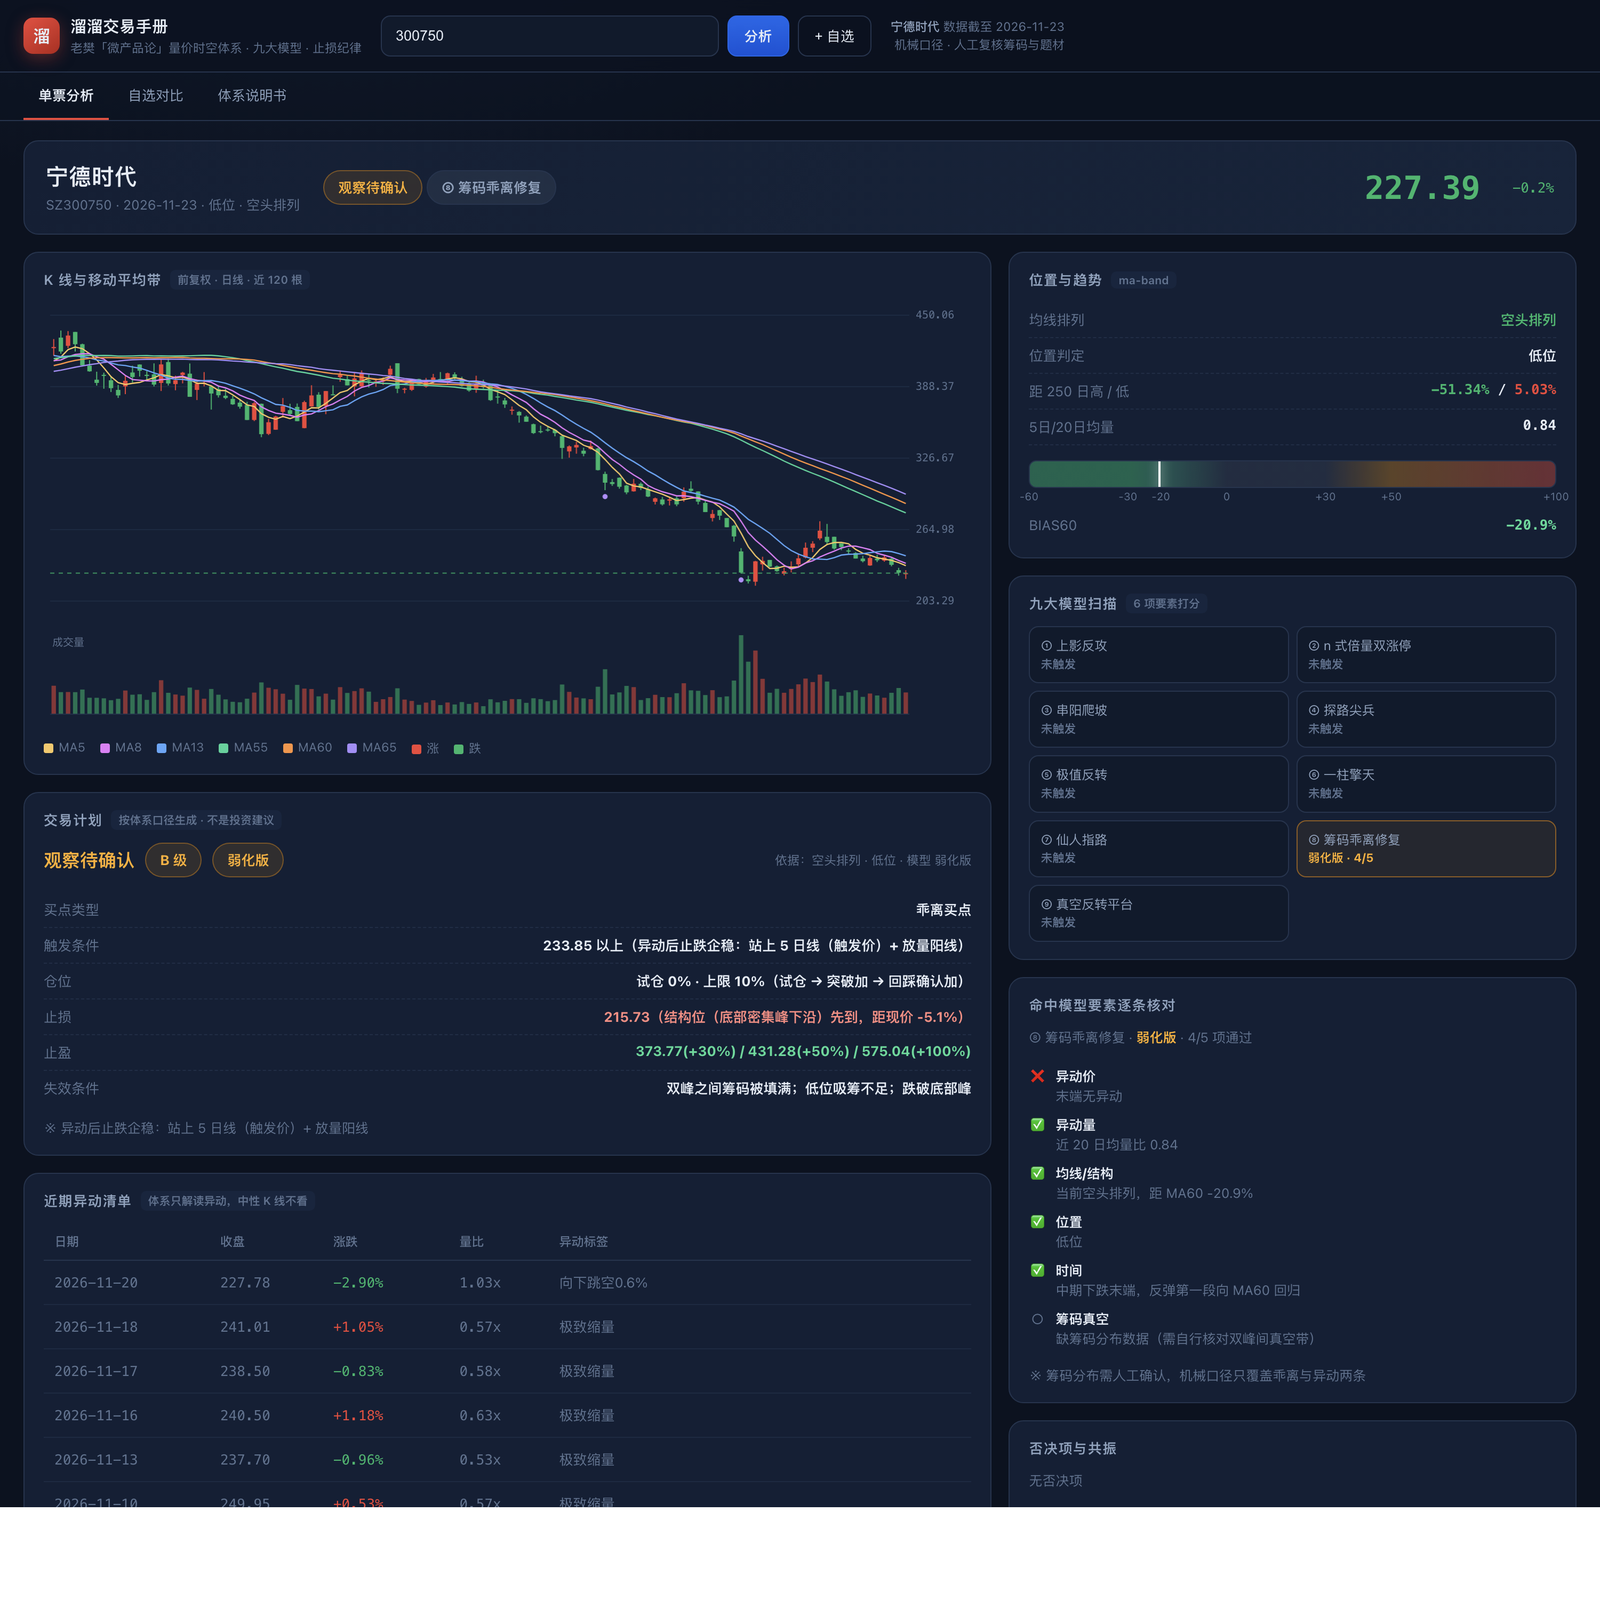
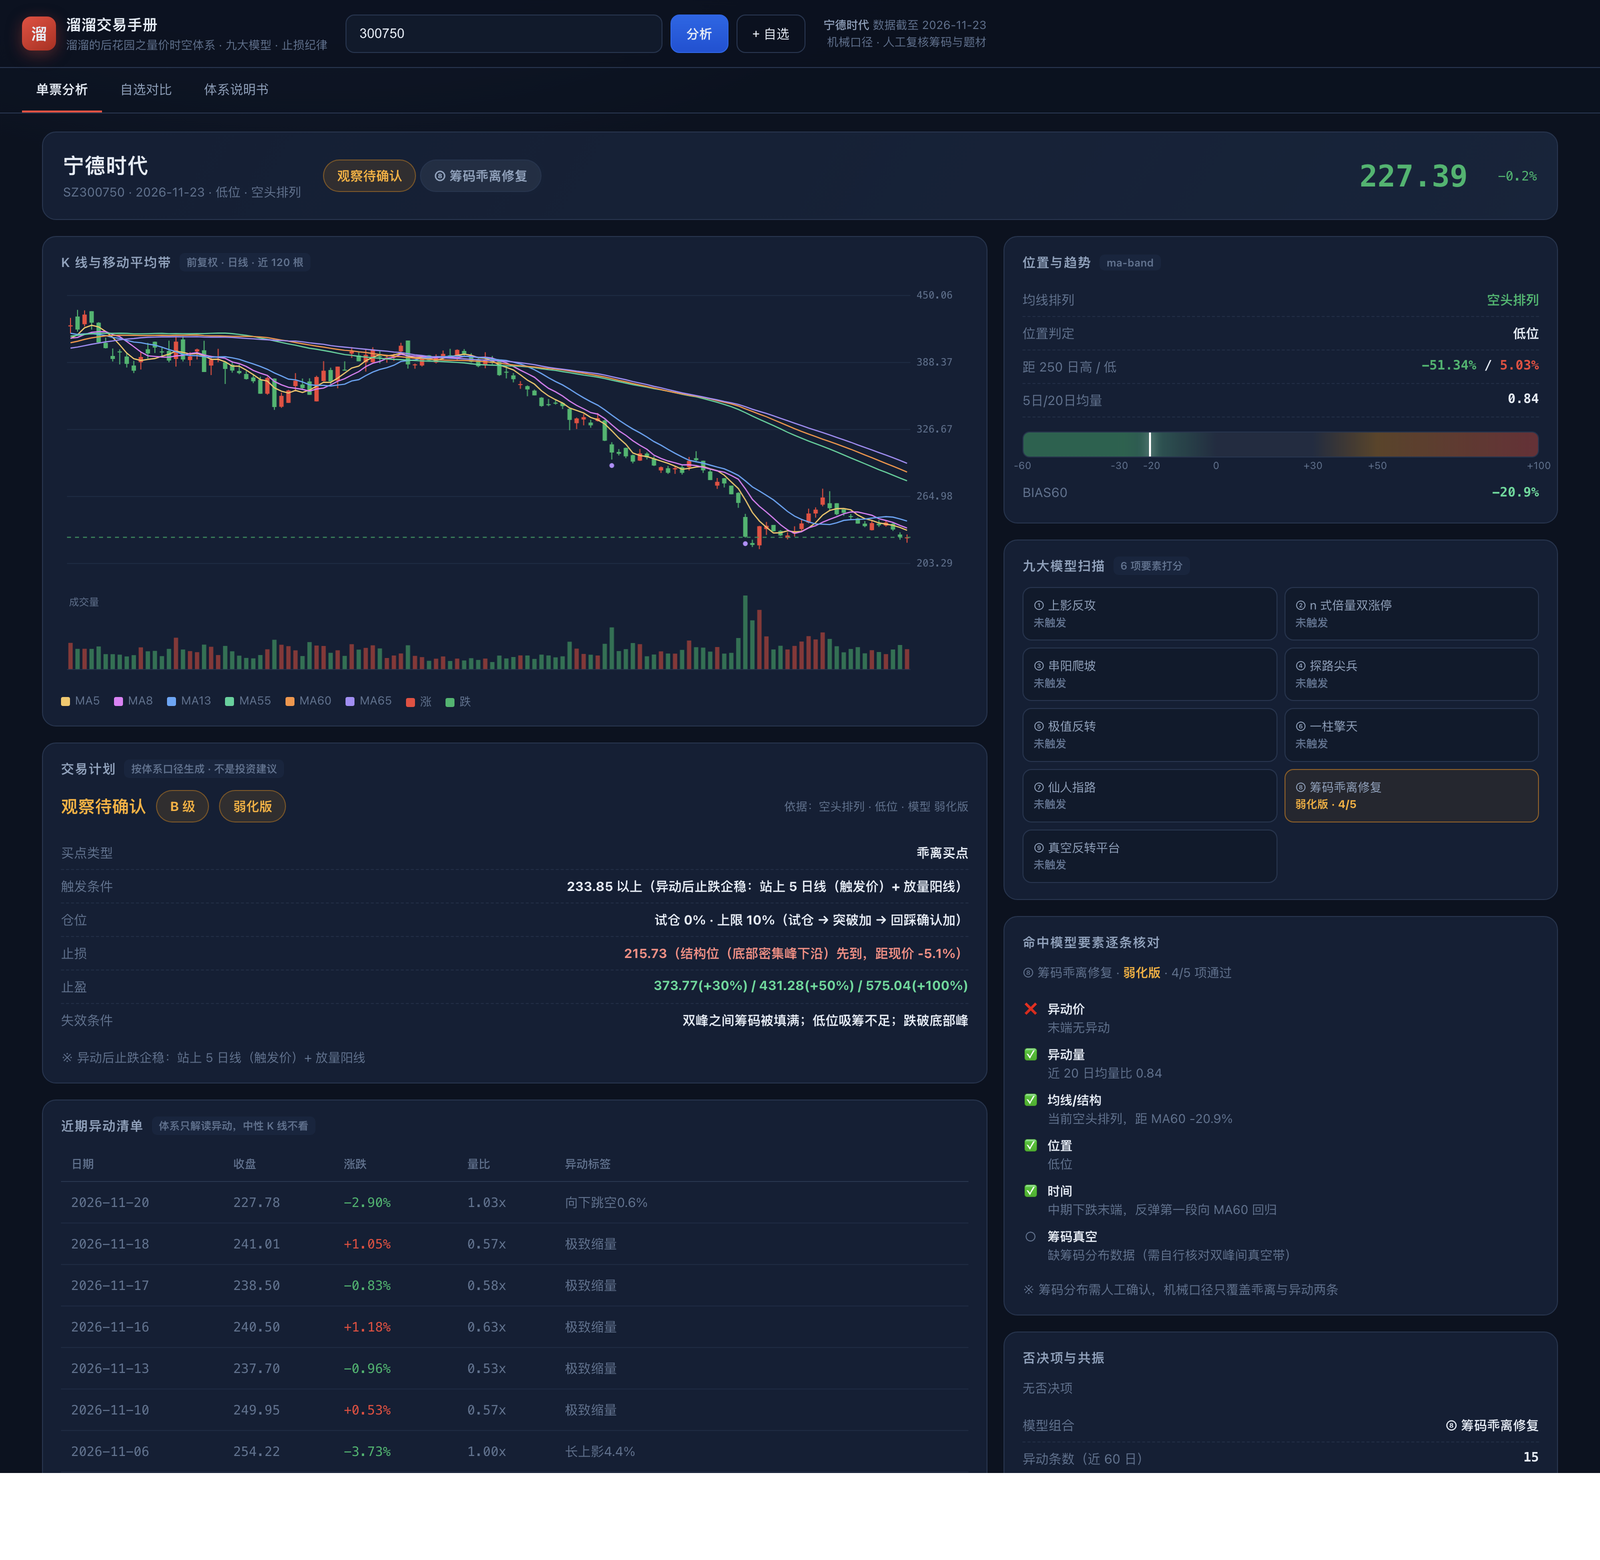
chore: header subtitle -> 溜溜的后花园之量价时空体系
- dashboard/web/index.html: 副标题改为「溜溜的后花园之量价时空体系 · 九大模型 · 止损纪律」
- dashboard/docs: 同步刷新三张截图

diff --git a/dashboard/web/index.html b/dashboard/web/index.html
@@ -14,7 +14,7 @@
     <div class="logo">溜</div>
     <div>
       <h1>溜溜交易手册</h1>
-      <p>老樊「微产品论」量价时空体系 · 九大模型 · 止损纪律</p>
+      <p>溜溜的后花园之量价时空体系 · 九大模型 · 止损纪律</p>
     </div>
   </div>
   <div class="search">
